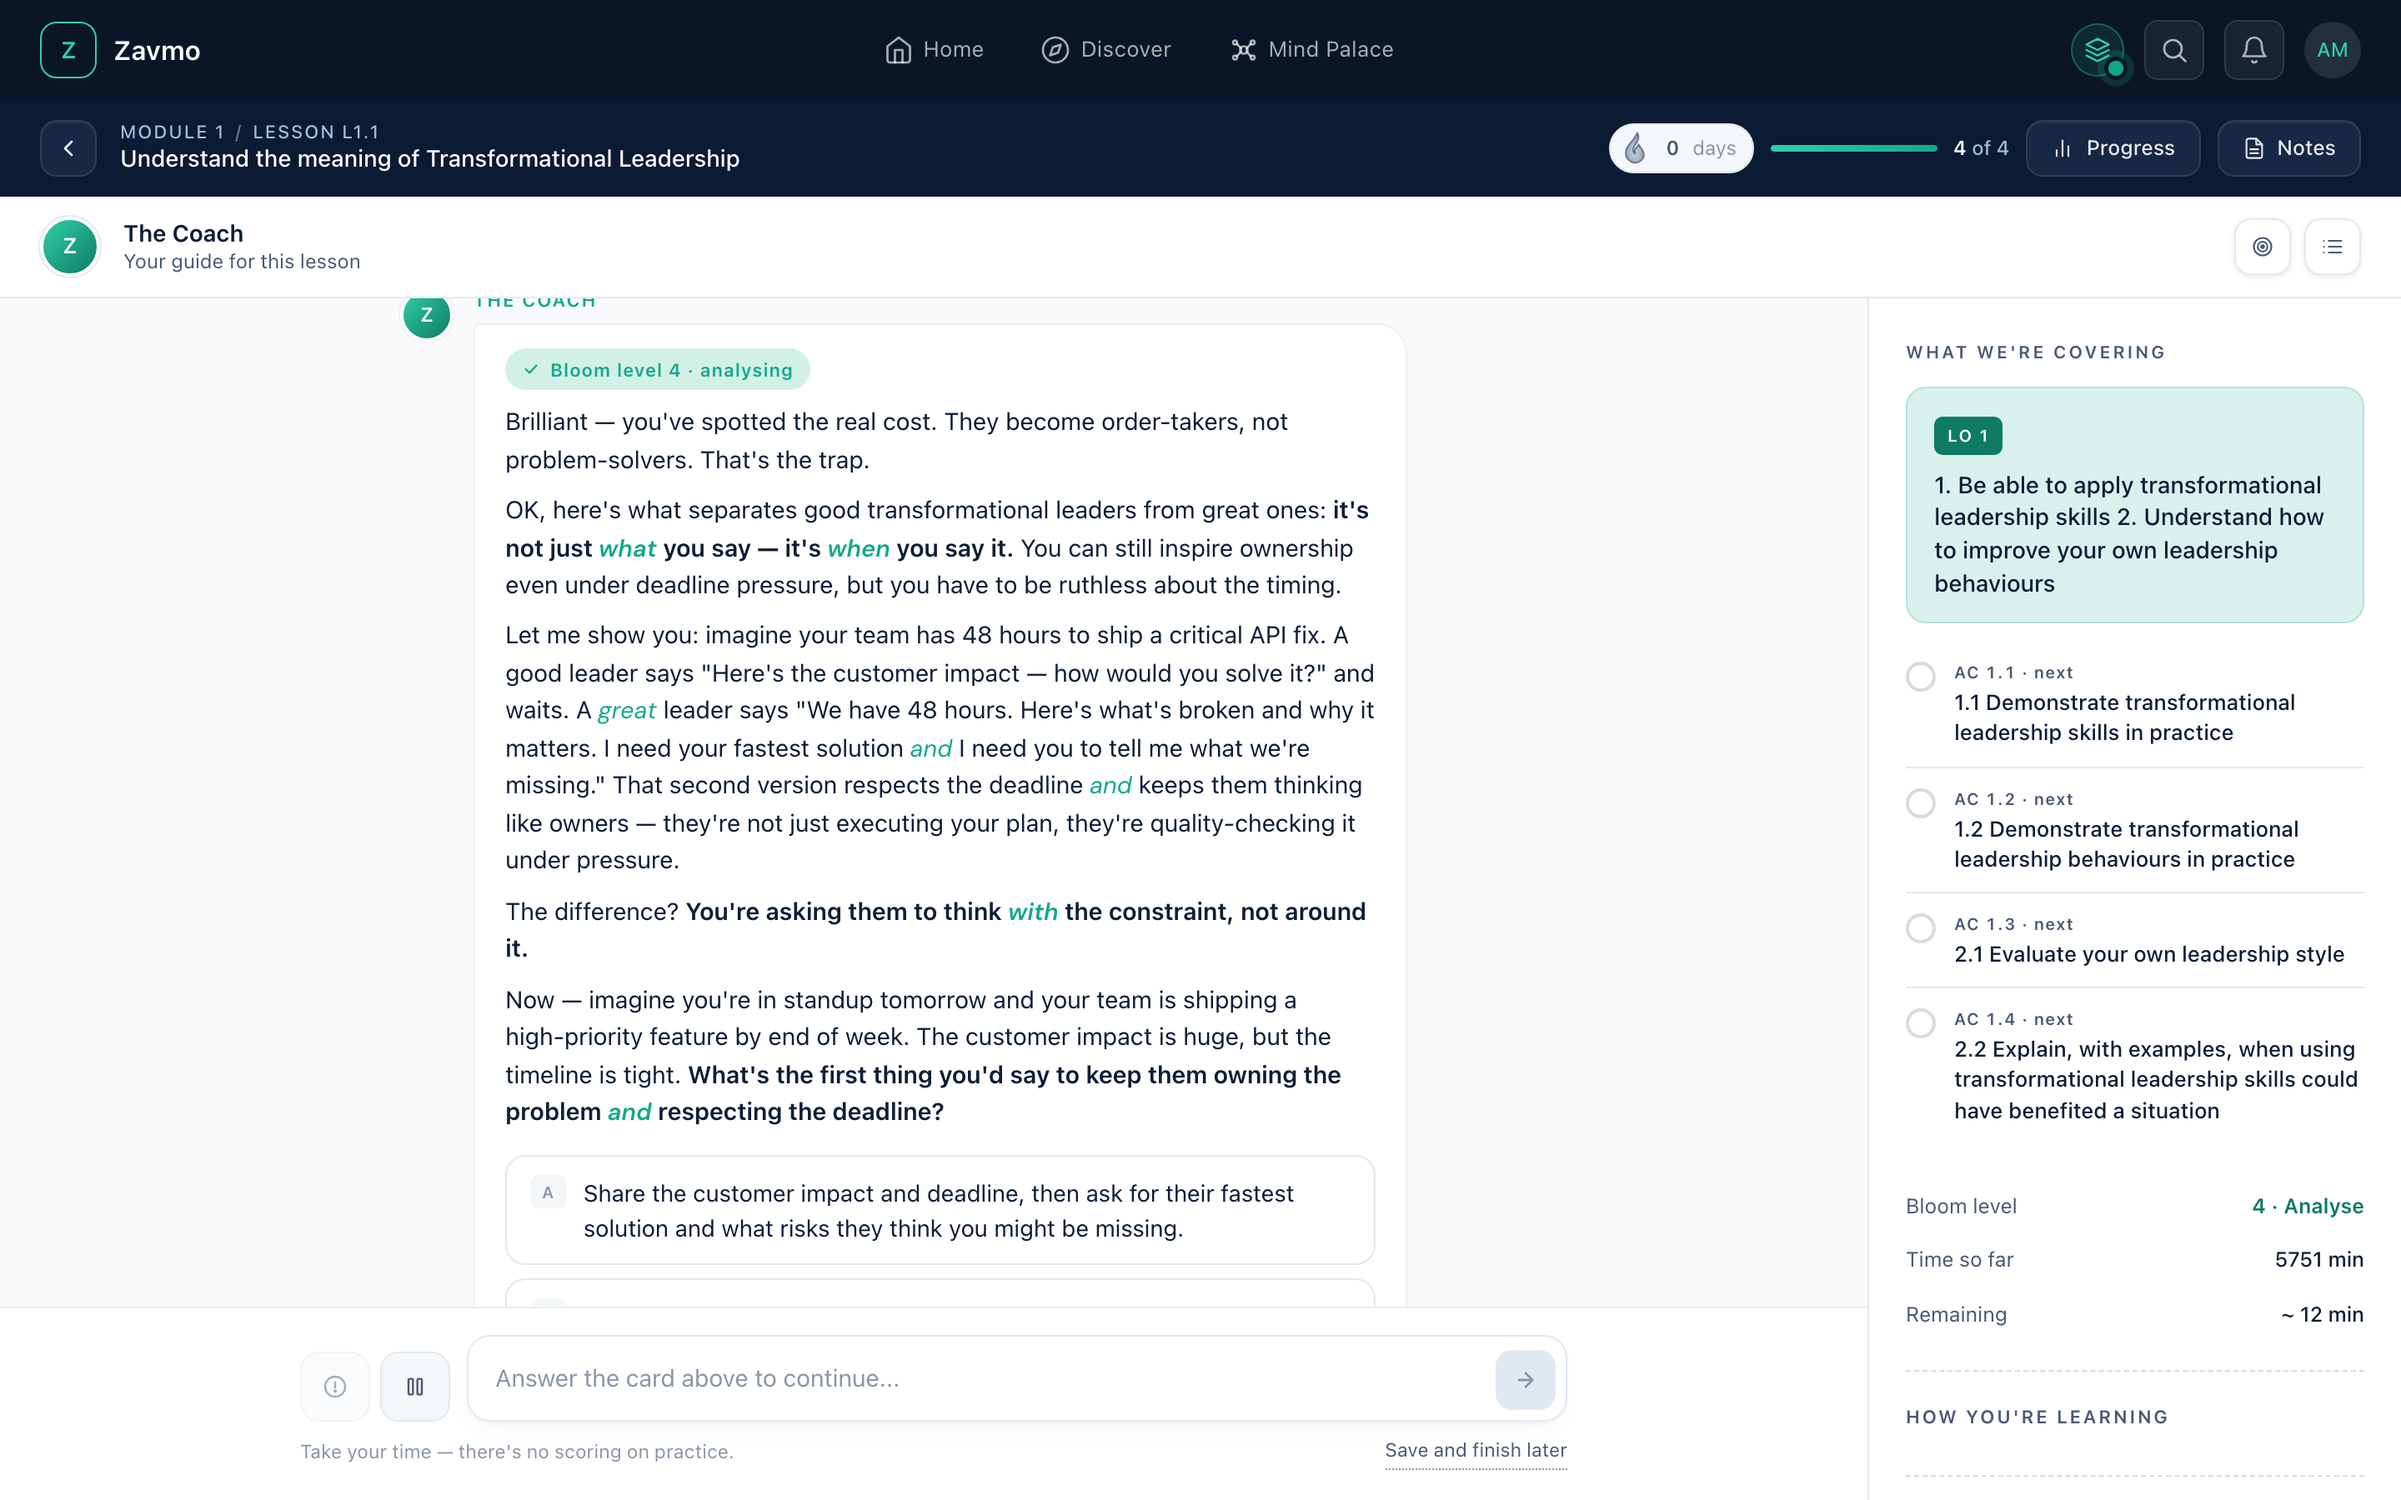
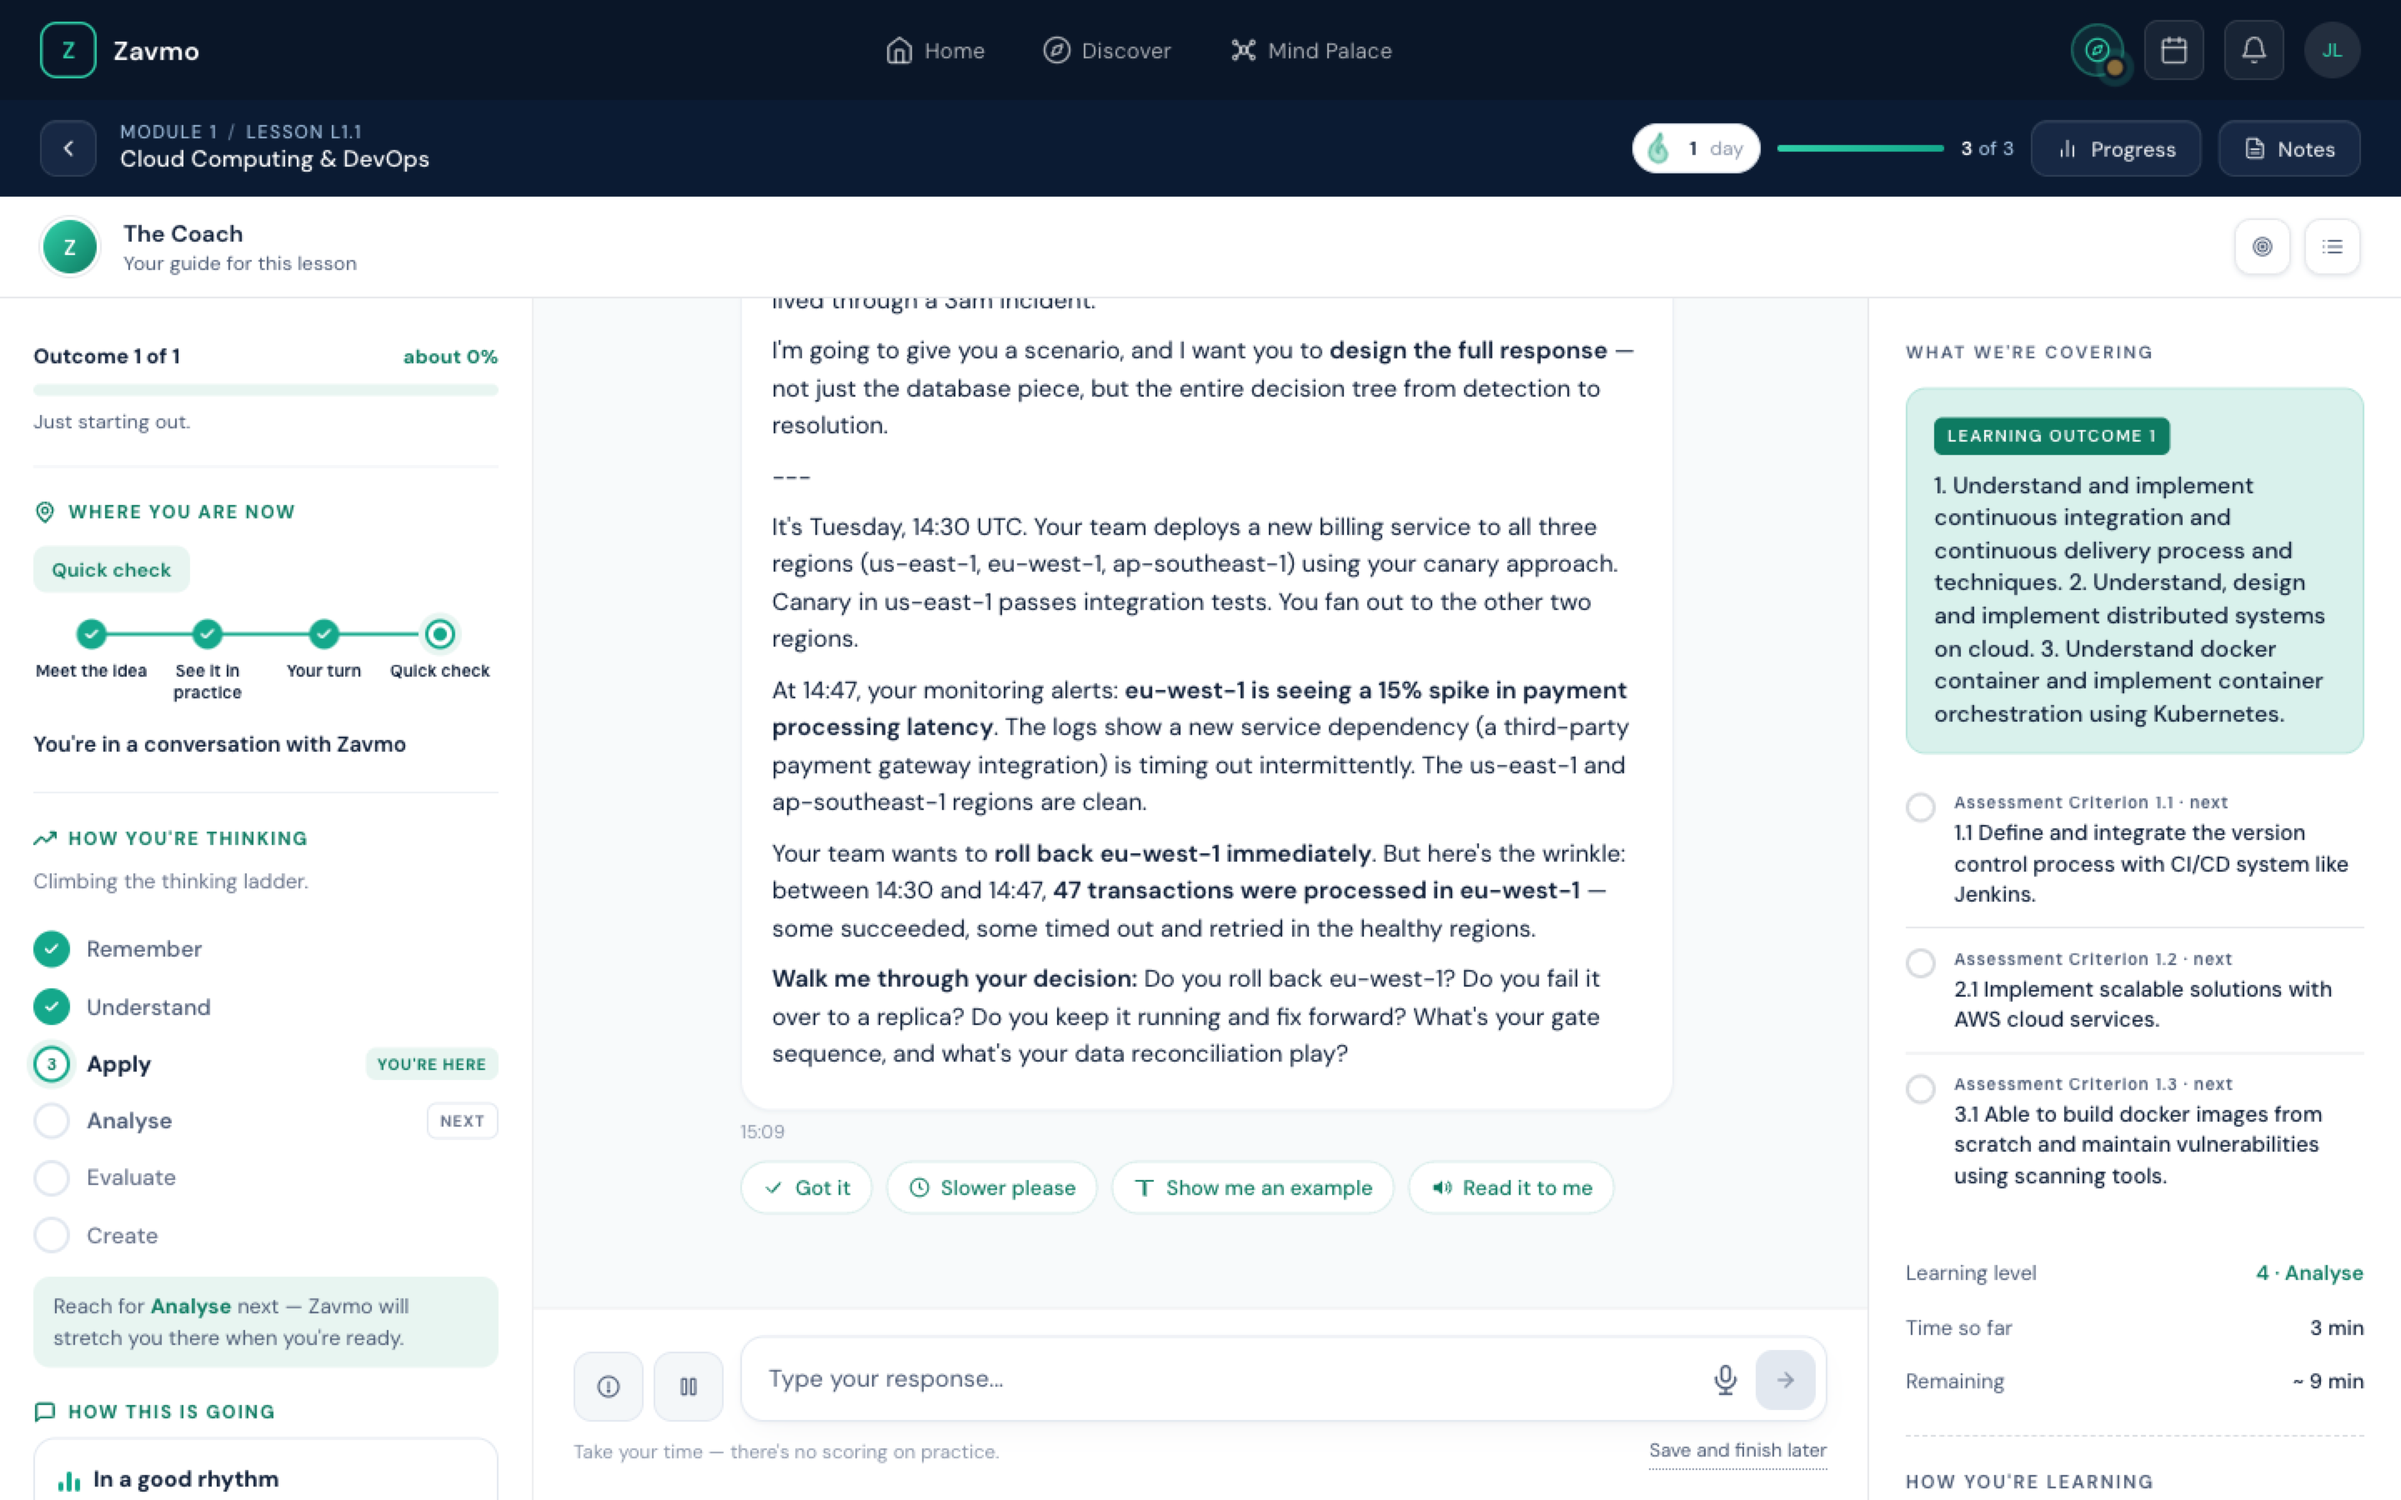
Update Deliver screens to show the lesson rail on every lesson view
Re-capture the six Deliver/lesson screens (teaching, retrieval, feedback,
deliberate practice, desirable difficulty, mastery) with the LessonJourneyRail
visible — the rail is now default-ON for every learner (PR #1239), so the
proposal should show it on all lesson screens, not just some.

Captures are from a real lesson on a tech-themed path (Cloud Computing &
DevOps, "Lead Cloud Engineering") so the worked examples are engineering, not
education. Captions for 21 (teaching), 38 (retrieval) and 37 (deliberate
practice) updated to match the new persona and on-screen content; 33 and 22
were persona-neutral and unchanged.

Slide 45 (role-play) is intentionally left as-is and will follow once the
role-play modality is enabled for the capture account.

diff --git a/learner-journey/index.html b/learner-journey/index.html
@@ -241,10 +241,10 @@ const S=[
   { section:true, num:'LESSON DELIVERY', title:'Lesson delivery', sub:'Zavmo teaches in your world — pitched at your Bloom’s level, paced to how you learn, and you can talk to it.' },
   { statement:true, eyebrow:'The pedagogy · Active learning', big:'You don’t watch.<br>You <em>do</em>.',
     body:'Reading and watching feel like learning, then fade fast. Zavmo teaches the way the evidence says works: <b>retrieval</b> (pulling answers out, not having them poured in), <b>deliberate practice</b> at the edge of your ability, and immediate feedback. Every screen that follows is built to make you do the thinking.' },
-  { img:'21.png', eyebrow:'Deliver · The Coach', title:'Teaching, in context', caption:'“The Coach” teaches conversationally, using a worked example from Alex’s own world — a burnt-out engineering team shipping API fixes — then asks a real question. Worked examples in your own context are how abstract ideas become usable skill: this is learning designed to <b>transfer</b>.' },
-  { img:'38.png', eyebrow:'Deliver · Retrieval', title:'It checks you, mid-conversation', caption:'No separate quiz tab. Right inside the lesson, Zavmo poses a real dilemma — “90 seconds in standup, what do you say?” — with options that are tempting but wrong. The Bloom chip and the criteria on the right update live as you answer. Pulling the answer out yourself builds far stronger memory than re-reading ever could. Captured live, in a real lesson.' },
+  { img:'21.png', eyebrow:'Deliver · The Coach', title:'Teaching, in context', caption:'“The Coach” teaches conversationally, using a worked example from Jordan’s own world — managing cloud infrastructure with version control tied into a CI/CD pipeline — then asks a real question. Worked examples in your own context are how abstract ideas become usable skill: this is learning designed to <b>transfer</b>.' },
+  { img:'38.png', eyebrow:'Deliver · Retrieval', title:'It checks you, mid-conversation', caption:'No separate quiz tab. Right inside the lesson, Zavmo poses a real dilemma — scaling a service from a single AWS region to three with no downtime — with options that are tempting but wrong. The Bloom chip and the criteria on the right update live as you answer. Pulling the answer out yourself builds far stronger memory than re-reading ever could. Captured live, in a real lesson.' },
   { img:'33.png', eyebrow:'Deliver · Feedback', title:'You steer it — and it scores you', caption:'Every message is interactive: answer in your own words, or tap “Got it”, “Slower please”, “Show me an example” or “Read it to me”. And it grades your thinking live at its Bloom level. Immediate, specific feedback is the single biggest lever on how fast someone improves.' },
-  { img:'37.png', eyebrow:'Deliver · Deliberate practice', title:'It drops you into a live scenario', caption:'Mid-lesson, Zavmo turns teaching into doing: a real scenario — your team has 48 hours to fix a critical API — and a card asking what you’d say first to keep them owning the problem. You don’t read about leadership, you practise it, and Zavmo responds to your actual answer. Practising the real task is what builds the real skill.' },
+  { img:'37.png', eyebrow:'Deliver · Deliberate practice', title:'It drops you into a live scenario', caption:'Mid-lesson, Zavmo turns teaching into doing: a real scenario — a 14:47 latency spike in eu-west-1 with 47 payment transactions in flight — and a card asking what you’d do first. You don’t read about handling an incident, you work it, and Zavmo responds to your actual decision. Practising the real task is what builds the real skill.' },
   { img:'45.png', eyebrow:'Deliver · Role-play', title:'It plays the people in your world', caption:'Ask Zavmo to role-play and it stays fully in character — here it becomes “Sam,” a burnt-out engineer pushing back on an impossible deadline, body language and all (“leans back in chair, jaw tight”). You rehearse the hard conversation safely, as many times as you like. Safe-to-fail rehearsal is how people get good at things that are costly to get wrong for real. Captured live, in a real lesson.' },
   { img:'22.png', eyebrow:'Deliver · Desirable difficulty', title:'It adapts to your answer', caption:'Answer well and Zavmo recognises the competence, then stress-tests it with a sharper, harder follow-up — pitched exactly at your edge, never a fixed script. Too easy and you coast; too hard and you stall. This is the “desirable difficulty” that produces the steepest learning.' },
   { statement:true, eyebrow:'Deliver · Five ways to make it stick', big:'It doesn’t test you.<br>It plays with you.',
